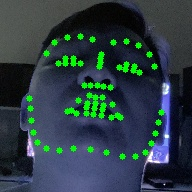
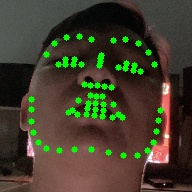
fix angle

diff --git a/plot_result.py b/plot_result.py
@@ -1,0 +1,171 @@
+from infer import *
+from utils import *
+import pandas as pd 
+import cv2
+import matplotlib.pyplot as plt
+import numpy as np
+
+os.environ["CUDA_VISIBLE_DEVICES"]=""
+
+set_memory_growth()
+
+ROUTE = './unzip/helen_image'
+
+im_size = 192
+
+weight = '/home/lap14880/hieunmt/facepose/tf_facepose_pipeline/best_model_facepose_EfficientNetV1B3_192_68.h5'
+
+infer_face_pose = InferFacePose(im_size, weight)
+
+df = pd.read_csv('/home/lap14880/hieunmt/facepose/tf_facepose_pipeline/mlkit_facepose_test.csv')
+
+dists = []
+x_dis = []
+y_dis = []
+z_dis = []
+
+x_true = []
+x_pred = []
+
+y_true = []
+y_pred = []
+
+z_true = []
+z_pred = []
+
+dists = []
+x_dis = []
+y_dis = []
+z_dis = []
+
+xyz_pred = []
+
+print('len', len(os.listdir(ROUTE)))
+
+for file in os.listdir(ROUTE)[:]:
+    filepath = ROUTE + '/' + file
+    ang_vertical, ang_horizon, ang_rot = infer_face_pose.predict_angle_from_path(filepath)
+
+    row = df[df['image']==file]
+
+    try:
+        list_true = np.array(row.values[0][1:])
+        list_pred = np.array([ang_vertical, ang_horizon, ang_rot])
+
+        x_true.append(list_true[0])
+        x_pred.append(list_pred[0])
+
+        y_true.append(list_true[1])
+        y_pred.append(list_pred[1])
+
+        z_true.append(list_true[2])
+        z_pred.append(list_pred[2])
+
+        dist_d = np.abs(list_true - list_pred)
+
+        x_dis.append(dist_d[0])
+        y_dis.append(dist_d[1])
+        z_dis.append(dist_d[2])
+
+        xyz_pred.append(list_pred)
+
+        dists.append(dist_d)
+    except:
+        pass
+
+x_true = np.array(x_true)
+x_pred = np.array(x_pred)
+
+y_true = np.array(y_true)
+y_pred = np.array(y_pred)
+
+z_true = np.array(z_true)
+z_pred = np.array(z_pred)
+
+from sklearn.linear_model import LinearRegression
+
+regression = LinearRegression()
+x_pred = np.reshape(x_pred, (-1, 1))
+regression.fit(x_pred, x_true)
+print('X regression.coef_', regression.coef_)
+print('X regression.intercept_', regression.intercept_)
+
+# regression = LinearRegression()
+# print(np.shape(xyz_pred))
+# regression.fit(xyz_pred, x_true)
+# print('X regression.coef_', regression.coef_)
+# print('X regression.intercept_', regression.intercept_)
+
+# regression = LinearRegression()
+# regression.fit(vers, x_true)
+# print('X regression.coef_', regression.coef_)
+# print('X regression.intercept_', regression.intercept_)
+
+plt.figure()
+plt.scatter(x_true, x_pred)
+# plt.scatter(x_true, regression.predict(vers))
+
+plt.plot(regression.predict(x_pred), x_pred, color='red', linewidth=3)
+# plt.plot(regression.predict(xyz_pred), x_pred, color='red', linewidth=3)
+# plt.plot(regression.predict(vers), x_pred, color='red', linewidth=3)
+
+plt.xlabel("X true")
+plt.ylabel("X pred")
+plt.title("Euclide X")
+plt.show()
+plt.savefig(f'x_plot.png')
+
+regression = LinearRegression()
+y_pred = np.reshape(y_pred, (-1, 1))
+regression.fit(y_pred, y_true)
+print('Y regression.coef_', regression.coef_)
+print('Y regression.intercept_', regression.intercept_)
+
+plt.figure()
+plt.scatter(y_true, y_pred)
+plt.plot(regression.predict(y_pred), y_pred, color='red', linewidth=3)
+plt.xlabel("Y true")
+plt.ylabel("Y pred")
+plt.title("Euclide Y")
+plt.show()
+plt.savefig(f'y_plot.png')
+
+regression = LinearRegression()
+z_pred = np.reshape(z_pred, (-1, 1))
+regression.fit(z_pred, z_true)
+print('Z regression.coef_', regression.coef_)
+print('Z regression.intercept_', regression.intercept_)
+
+plt.figure()
+plt.scatter(z_true, z_pred)
+plt.plot(regression.predict(z_pred), z_pred, color='red', linewidth=3)
+plt.xlabel("Z true")
+plt.ylabel("Z pred")
+plt.title("Euclide Z")
+plt.show()
+plt.savefig(f'z_plot.png')
+
+def describe(arrs, names):
+    with open('benchmark.txt', 'w') as f:
+        f.write('name,mean,median,min,max,range,variance,sd,per25,per50,per75\n')
+        print(('name,mean,median,min,max,range,variance,sd,per25,per50,per75\n'))
+
+        for i, arr in enumerate(arrs):
+            _name = names[i]
+            _mean = np.mean(arr)
+            _median = np.median(arr)
+            _min = np.amin(arr)
+            _max = np.amax(arr)
+            _range = np.ptp(arr)
+            _variance = np.var(arr)
+            _sd = np.std(arr)
+            _per25 = np.percentile(arr, 25)
+            _per50 = np.percentile(arr, 50)
+            _per75 = np.percentile(arr, 75)
+
+            f.write(f'{_name},{_mean},{_median},{_min},{_max},{_range},{_variance},{_sd},{_per25},{_per50},{_per75}\n')
+            print(f'{_name},{_mean},{_median},{_min},{_max},{_range},{_variance},{_sd},{_per25},{_per50},{_per75}\n')
+            
+list_des = [x_dis, y_dis, z_dis, dists]
+names = ['x', 'y', 'z', 'all']
+describe(list_des, names)

diff --git a/infer.py b/infer.py
@@ -103,6 +103,21 @@ class InferFacePose:
         
         return(point_2d[2], k)
 
+    def euclide_dis(self, a, b):
+        return ((a[0] - b[0])**2 + (a[1] - b[1])**2)**0.5 
+
+    def get_dis_verti(self, ver_marks):
+        res = []
+        for i in range(len(ver_marks) - 1):
+            res.append(self.euclide_dis(ver_marks[i], ver_marks[i + 1]))
+
+        w = np.array([-4.67005909, 2.18661222, 0.95821962, -1.34884679, 0.28772259, 0.25002672, 0.66522547])
+        res = np.array(res)
+        res = np.sum(np.multiply(res, w))
+        res += 2.423137949214162
+
+        return res
+
     def predict_angle(self, img, get_view_point=False):
         """
         return ang_vertical, ang_horizon
@@ -112,6 +127,7 @@ class InferFacePose:
         """
         marks = self.predict_marks(img)
         
+        ver_marks = marks[[28,29,30,31,34,52,58,9]]
         marks = marks[[30,      # Nose tip
                         8,      # Chin
                         36,     # Left eye left corner
@@ -121,8 +137,9 @@ class InferFacePose:
                     ]
       
         eye_center = ((marks[2][0] + marks[3][0]) / 2, (marks[2][1] + marks[3][1]) / 2)
-        dx = abs(marks[2][0] - marks[3][0])
-        dy = abs(marks[2][1] - marks[3][1])
+
+        dx = marks[2][1] - marks[3][1]
+        dy = marks[2][0] - marks[3][0]
         ang_rot = np.arctan2(dy, dx)
         ang_rot = ang_rot * 180 / math.pi  
 
@@ -140,23 +157,25 @@ class InferFacePose:
         
         x1, x2 = self.get_3d_box(img, rotation_vector, translation_vector, self.camera_matrix)
 
-        p1 = (int(marks[0][0]), int(marks[0][1]))
-        p2 = (int(nose_end_point2D[0][0][0]), int(nose_end_point2D[0][0][1]))
+        p1 = (marks[0][0], marks[0][1])
+        p2 = (nose_end_point2D[0][0][0], nose_end_point2D[0][0][1])
 
-        try:
-            m = (p2[1] - p1[1])/(p2[0] - p1[0])
-            ang_vertical = int(math.degrees(math.atan(m)))
-        except:
-            ang_vertical = 90
+        # try:
+        #     m = (p2[1] - p1[1]) / (p2[0] - p1[0])
+        #     ang_vertical = math.degrees(math.atan(m))
+        # except:
+        #     ang_vertical = 90
             
         try:
-            m = (x2[1] - x1[1])/(x2[0] - x1[0])
-            ang_horizon = int(math.degrees(math.atan(-1/m)))
+            m = (x2[1] - x1[1]) / (x2[0] - x1[0])
+            ang_horizon = math.degrees(math.atan(-1/m))
         except:
             ang_horizon = 90
 
-        ang_vertical /= -4
-        ang_horizon /= 4
+        ang_vertical = self.get_dis_verti(ver_marks)
+
+        ang_horizon = ang_horizon * -0.346704 + -3.1765258653045967
+        ang_rot = ang_rot * 0.90852464 + 81.45654748897404
 
         if get_view_point:
             return ang_vertical, ang_horizon, ang_rot, p1, p2
@@ -203,7 +222,7 @@ if __name__ == '__main__':
     except:
         pass
 
-    img = np.array(img) * 255
+    img = np.array(img[...,::-1]) * 255
     img_write = infer_face_pose.draw_marks(img, marks)
     # cv2.line(img_write, p1, p2, (255,255,255), 2)
     
